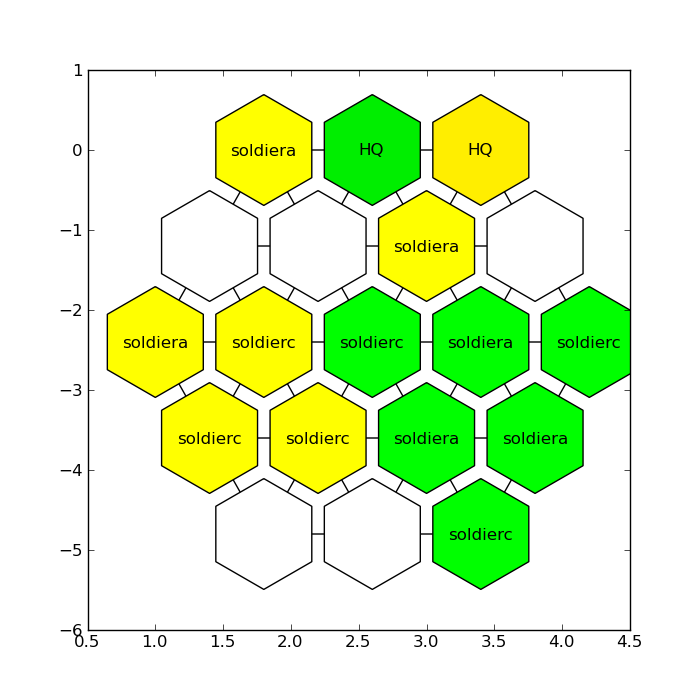
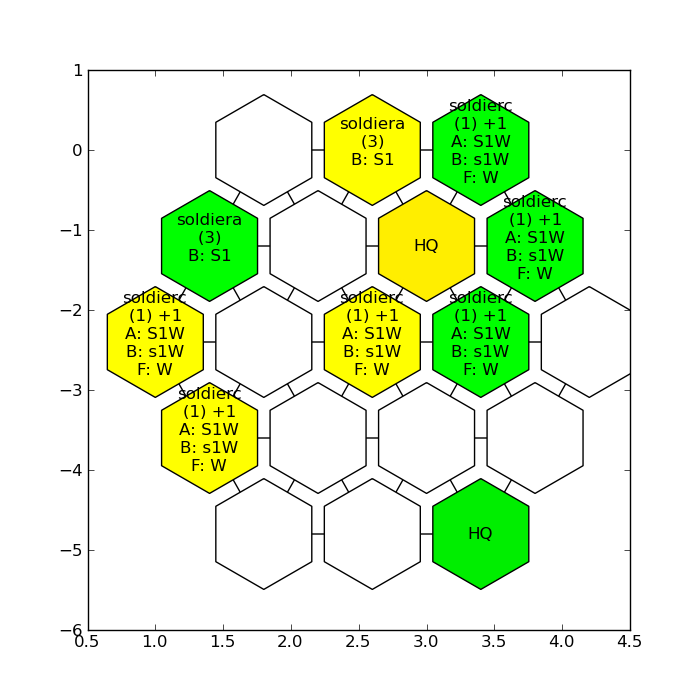
some pawn actions added + shown on the printed graph

Changed region(s): [[0.18, 0.12, 0.9, 0.72], [0.63, 0.75, 0.72, 0.78], [0.57, 0.33, 0.66, 0.36]]

diff --git a/model/pawn.py b/model/pawn.py
@@ -1,6 +1,9 @@
 # -*- coding: utf-8 -*-
 import logging
-log = logging.getLogger(__name__)
+
+from model.action import *
+log = logging.getLogger(__name__) #define after '..pawn import *'
+
 
 
 class Pawn(object):
@@ -11,20 +14,66 @@ class Pawn(object):
         self.is_immediate = False
         self.can_be_put_on_board = False
 
+        self.actions = {}
+        self.initiative = None
+        self.extra_armor = None
+
     def color(self):
         return self.army.color
     
     def get_name(self):
-        return self.__class__.__name__.replace('Pawn', '').lower()
+        initiative = 'X'
+        armor = ''
+        actions = ''
+
+        if None == self.initiative:
+            initiative = '(X)'
+        else:
+            initiative = '(%s)' % self.initiative
+
+        if None == self.extra_armor:
+            armor = ''
+        else:
+            armor = '+%s' % self.extra_armor
+            
+        for direction in self.actions:
+            actions += '%s: ' % direction
+            for action in self.actions[direction]:
+                actions += action.text_repr()
+            actions += '\n'
+            
+        
+        return \
+            "%(name)s\n%(initiative)s %(armor)s\n%(actions)s" % {
+                'name': self.__class__.__name__.replace('Pawn', '').lower(),
+                'initiative': initiative,
+                'armor': armor,
+                'actions': actions
+            }
         
     def am_hq(self):
         return False
-            
+        
+    def action(self, direction, name):
+        for action in self.actions.get(direction, []):
+            if name == action.name:
+                return action
+        return NullAction()
+        
             
 class HqPawn(Pawn):
     def __init__(self, army):
         Pawn.__init__(self, army)
         self.can_be_put_on_board = True
+        self.initiative = 0
+        self.actions = {
+            'A': [Stab(1)],
+            'B': [Stab(1)],
+            'C': [Stab(1)],
+            'D': [Stab(1)],
+            'E': [Stab(1)],
+            'F': [Stab(1)]
+        }
 
     def color(self):
         return self.army.hq_color
@@ -40,18 +89,33 @@ class SoldierAPawn(Pawn):
     def __init__(self, army):
         Pawn.__init__(self, army)
         self.can_be_put_on_board = True
+        self.initiative = 3
+        self.actions = {
+            'B': [Shot(1)],
+        }
         
 
 class SoldierBPawn(Pawn):
     def __init__(self, army):
         Pawn.__init__(self, army)
         self.can_be_put_on_board = True
+        self.initiative = 3
+        self.actions = {
+            'B': [Shot(2)],
+        }
         
 
 class SoldierCPawn(Pawn):
     def __init__(self, army):
         Pawn.__init__(self, army)
         self.can_be_put_on_board = True
+        self.initiative = 1
+        self.actions = {
+            'A': [Shot(1), WhiteArmor()],
+            'B': [Stab(1), WhiteArmor()],
+            'F': [WhiteArmor()],
+        }
+        self.extra_armor = 1
         
 
 class SniperPawn(Pawn):
@@ -76,5 +140,10 @@ class MedicPawn(Pawn):
     def __init__(self, army):
         Pawn.__init__(self, army)
         self.can_be_put_on_board = True
+        self.actions = {
+            'A': [Heal()],
+            'C': [Heal()],
+            'E': [Heal()],
+        }
         
         

diff --git a/model/action.py b/model/action.py
@@ -1,0 +1,45 @@
+# -*- coding: utf-8 -*-
+import logging
+log = logging.getLogger(__name__)
+
+
+class Action(object):
+    def __init__(self, points=None):
+        self.name = None
+        self.points = points
+        
+    def text_repr(self):
+        return ''
+        
+class NullAction(Action):
+    """For use inside tests
+    """
+    def __init__(self):
+        Action.__init__(self)
+        self.name = 'null'
+        
+class Stab(Action):
+    def __init__(self, points):
+        Action.__init__(self, points=points)
+        self.name = 'stab'
+        
+    def text_repr(self):
+        return 's%s' % self.points
+        
+
+class Shot(Action):
+    def __init__(self, points):
+        Action.__init__(self, points=points)
+        self.name = 'shot'
+
+    def text_repr(self):
+        return 'S%s' % self.points
+        
+class WhiteArmor(Action):
+    def __init__(self):
+        self.name = 'white_armor'
+        pass
+
+    def text_repr(self):
+        return 'W'
+    

diff --git a/tests/test_pawn.py b/tests/test_pawn.py
@@ -1,0 +1,20 @@
+# -*- coding: utf-8 -*-
+from tests.base import * 
+
+class Test(BaseTest):
+    
+    def test_00_soldier_a(self):
+        soldier_a = SoldierAPawn(POSTERUNEK)
+        
+        self.assertEqual(None, soldier_a.action('A', 'shot').points)
+        self.assertEqual(1, soldier_a.action('B', 'shot').points)
+        self.assertEqual(None, soldier_a.extra_armor)
+        
+        self.assertFalse(soldier_a.is_immediate)
+        self.assertTrue(soldier_a.can_be_put_on_board)
+        self.assertEqual(3, soldier_a.initiative)
+
+        
+        
+        
+        

diff --git a/tests/base.py b/tests/base.py
@@ -1,14 +1,16 @@
 # -*- coding: utf-8 -*-
 import logging
-log = logging.getLogger(__name__)
 
 import unittest
 import sys
 
-from model.army import Army
+from model.army import Army, POSTERUNEK, BORGO, HEGEMONIA, MOLOCH
 from model.board import Board
 from model.game import Game
+from model.pawn import *
 
+
+log = logging.getLogger(__name__) #define after '..pawn import *'
 
 
 class BaseTest(unittest.TestCase):
